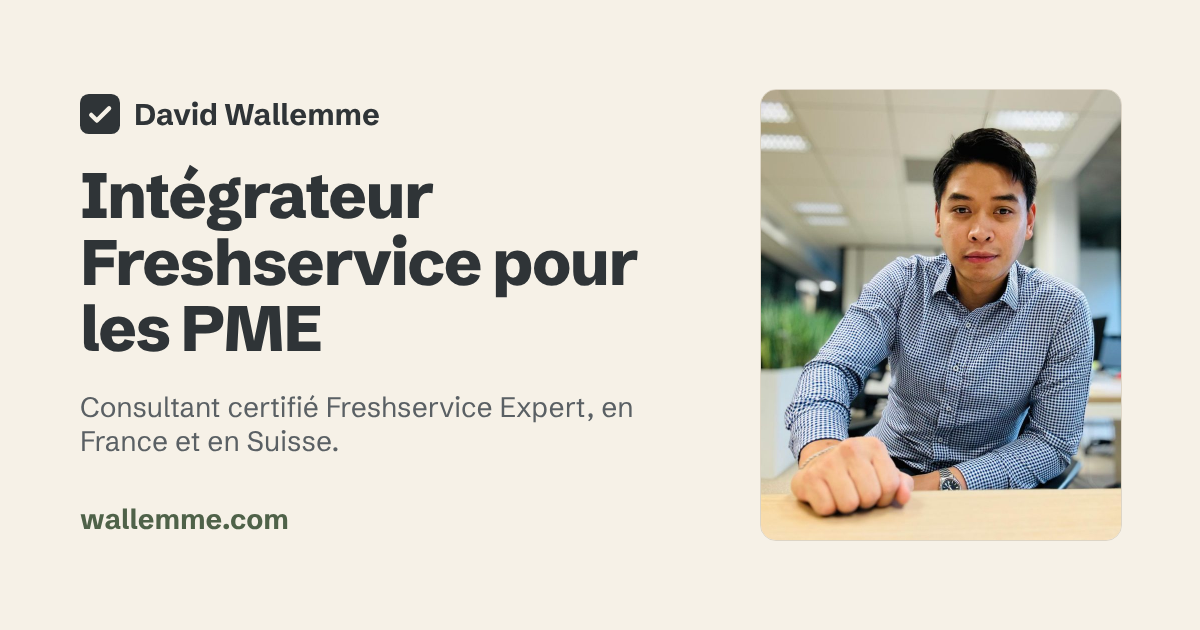
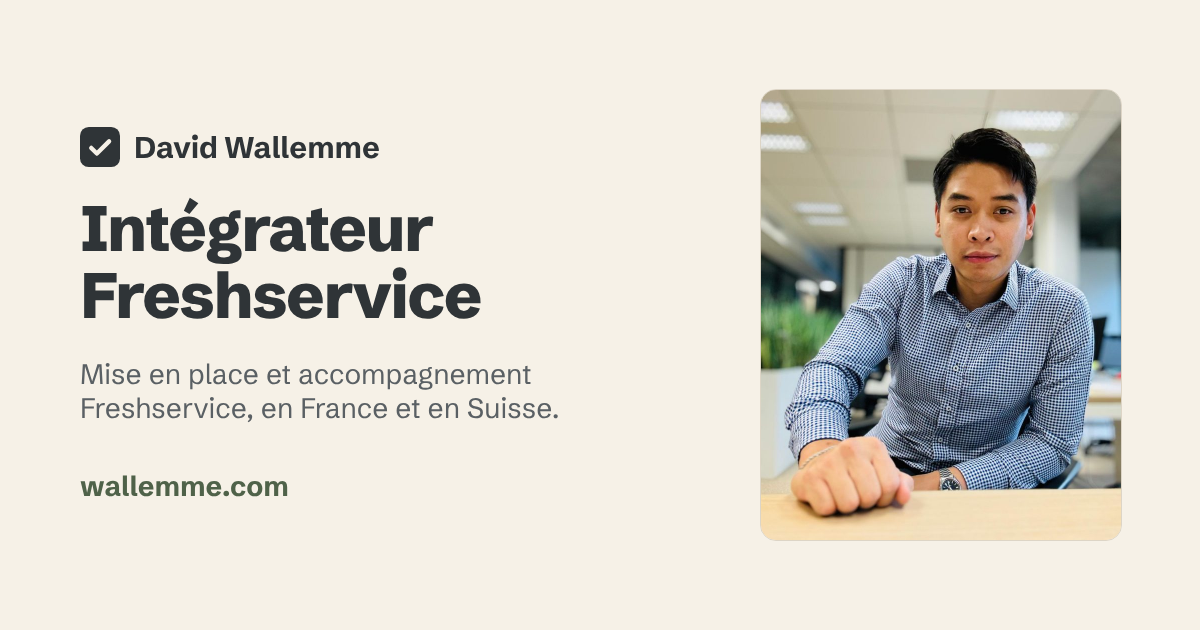
Retrait mention PME

Changed region(s): [[0.0617, 0.1508, 0.555, 0.6635], [0.0617, 0.754, 0.2467, 0.8444], [0.0617, 0.6937, 0.2775, 0.7238]]

diff --git a/index.html b/index.html
@@ -3,11 +3,11 @@
 <head>
 <meta charset="utf-8">
 <meta name="viewport" content="width=device-width, initial-scale=1">
-<title>David Wallemme · Intégrateur Freshservice pour les PME</title>
-<meta name="description" content="Consultant indépendant certifié Freshservice Expert. Mise en place de Freshservice pour les PME en France et en Suisse : cadrage, paramétrage, intégrations, formation et support.">
+<title>David Wallemme · Intégrateur Freshservice</title>
+<meta name="description" content="Consultant indépendant certifié Freshservice Expert. Mise en place et accompagnement Freshservice en France et en Suisse : cadrage, paramétrage, intégrations, formation et support.">
 <link rel="canonical" href="https://wallemme.com/">
-<meta property="og:title" content="David Wallemme, intégrateur Freshservice pour les PME">
-<meta property="og:description" content="Mise en place de Freshservice pour les PME en France et en Suisse, du cadrage à la formation de vos équipes.">
+<meta property="og:title" content="David Wallemme, intégrateur Freshservice">
+<meta property="og:description" content="Mise en place de Freshservice en France et en Suisse, du cadrage à la formation de vos équipes.">
 <meta property="og:url" content="https://wallemme.com/">
 <meta property="og:type" content="website">
 <meta property="og:image" content="https://wallemme.com/partage.png">
@@ -29,7 +29,7 @@
   "url": "https://wallemme.com/",
   "email": "david@wallemme.com",
   "areaServed": ["FR", "CH"],
-  "description": "Mise en place et accompagnement Freshservice pour les PME.",
+  "description": "Mise en place et accompagnement Freshservice.",
   "founder": {"@type": "Person", "name": "David Wallemme", "sameAs": "https://www.linkedin.com/in/david-wallemme-28942a11b/"}
 }
 </script>
@@ -242,7 +242,7 @@
   <div class="wrap hero">
     <div>
       <h1>Votre service desk sur Freshservice, mis en place par un expert certifié.</h1>
-      <p class="lead">Consultant indépendant certifié Freshservice Expert, j'accompagne les PME en France et en Suisse, du cadrage des besoins à la formation de vos équipes.</p>
+      <p class="lead">Consultant indépendant certifié Freshservice Expert, j'accompagne les entreprises en France et en Suisse, du cadrage des besoins à la formation de vos équipes.</p>
       <div class="actions">
         <a class="btn" href="mailto:david@wallemme.com?subject=Projet%20Freshservice">Parler de votre projet</a>
         <a class="link-quiet" href="#offres">Voir les tarifs</a>
